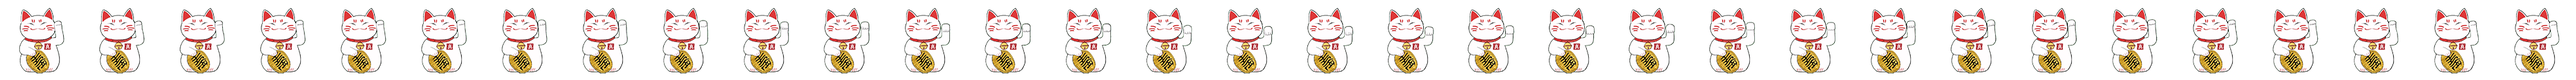
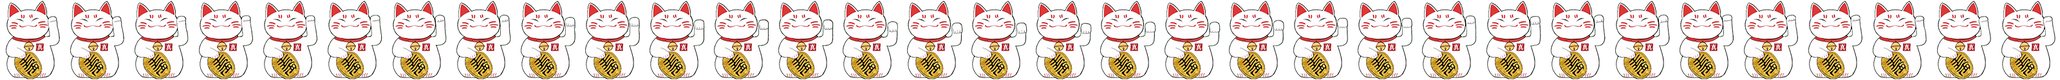
'update'

diff --git a/src/App.js b/src/App.js
@@ -1,37 +1,44 @@
-import React, { Suspense } from 'react'
-import { BrowserRouter, HashRouter, Navigate, Route, Routes } from 'react-router-dom'
+import React from 'react'
+import { HashRouter, Route, Routes } from 'react-router-dom'
 
 import { useEffect } from 'react'
-import { useDispatch } from 'react-redux'
-import { setProduct, setProducts } from 'service/baseSlice'
+import { useDispatch, useSelector } from 'react-redux'
+import { setProduct, setProducts, setLoading } from 'service/baseSlice'
 
 import Home from 'feature/Home/Home'
 import Detail from 'feature/Detail/Detail'
 import { monProducts } from 'service/sourceProduct'
 
+import Loading from 'components/Loading'
+
 function App() {
+  const isLoading = useSelector((state) => state.baseSlice.data.loading)
+
   const dispatch = useDispatch()
-  dispatch(setProducts(monProducts))
 
   useEffect(() => {
-    // Kiểm tra xem có dữ liệu đã lưu trong localStorage không
+    dispatch(setProducts(monProducts))
     const storedProduct = localStorage.getItem('product')
     if (storedProduct) {
-      // Nếu có, dispatch action để setProduct vào Redux state
-      dispatch(setProduct(JSON.parse(storedProduct).id))
+      const { id } = JSON.parse(storedProduct)
+      dispatch(setProduct(id))
     }
+    setTimeout(() => {
+      dispatch(setLoading(false))
+    }, 1000)
   }, [dispatch])
 
   return (
     <>
-      {/* <BrowserRouter basename={process.env.PUBLIC_URL}> */}
-      <HashRouter>
-        <Routes>
-          <Route path="/" element={<Home />} />
-          <Route path="/detail" element={<Detail />} />
-        </Routes>
-      </HashRouter>
-      {/* </BrowserRouter> */}
+      {isLoading && <Loading />}
+      {!isLoading && (
+        <HashRouter>
+          <Routes>
+            <Route path="/" element={<Home />} />
+            <Route path="/detail" element={<Detail />} />
+          </Routes>
+        </HashRouter>
+      )}
     </>
   )
 }

diff --git a/src/service/baseSlice.js b/src/service/baseSlice.js
@@ -1,4 +1,4 @@
-import { createSlice, createAsyncThunk } from '@reduxjs/toolkit'
+import { createSlice } from '@reduxjs/toolkit'
 
 const namespace = 'baseSlice'
 
@@ -8,6 +8,7 @@ const initialState = {
     newProducts: [],
     products: [],
     product: {},
+    loading: true,
   },
 }
 
@@ -23,15 +24,18 @@ const baseSlice = createSlice({
 
       state.data.newProducts = state.data.products.slice(0, 3)
 
-      console.log('bestProduct', state.data.bestProduct)
-      console.log('newProducts', state.data.newProducts)
-      console.log('products', state.data.bestPproductsroduct)
+      // console.log('bestProduct', state.data.bestProduct)
+      // console.log('newProducts', state.data.newProducts)
+      // console.log('products', state.data.bestPproductsroduct)
     },
     setProduct: (state, action) => {
       const productId = action.payload
       state.data.product = state.data.products.find((product) => product.id === productId) || {}
       localStorage.setItem('product', JSON.stringify(state.data.product))
-      console.log('product', state.data.product)
+      // console.log('product', state.data.product)
+    },
+    setLoading: (state, action) => {
+      state.data.loading = action.payload
     },
   },
   extraReducers(builder) {},
@@ -39,6 +43,6 @@ const baseSlice = createSlice({
 
 const { reducer, actions } = baseSlice
 
-export const { setBestProducts, setNewProducts, setProducts, setProduct } = actions
+export const { setBestProducts, setNewProducts, setProducts, setProduct, setLoading } = actions
 
 export default reducer

diff --git a/src/index.css b/src/index.css
@@ -109,7 +109,7 @@
   }
 
   .catpc {
-    width: 125px;
+    width: 100px;
     height: 125px;
     margin: 0 auto;
     object-fit: contain;
@@ -125,7 +125,7 @@
       background-position-x: 0px;
     }
     to {
-      background-position-x: -4000px;
+      background-position-x: -3200px;
     }
   }
   @-moz-keyframes moveXpc {
@@ -133,7 +133,7 @@
       background-position-x: 0px;
     }
     to {
-      background-position-x: -4000px;
+      background-position-x: -3200px;
     }
   }
   @-o-keyframes moveXpc {
@@ -141,7 +141,7 @@
       background-position-x: 0px;
     }
     to {
-      background-position-x: -4000px;
+      background-position-x: -3200px;
     }
   }
   @keyframes moveXpc {
@@ -149,13 +149,13 @@
       background-position-x: 0px;
     }
     to {
-      background-position-x: -4000px;
+      background-position-x: -3200px;
     }
   }
 
   .catmobile {
     width: 50px;
-    height: 50px;
+    height: 63px;
     margin: 0 auto;
     object-fit: contain;
     background-image: url('assets/images/catmobile.png');

diff --git a/src/components/Loading.js b/src/components/Loading.js
@@ -1,0 +1,14 @@
+import './loading.css'
+
+export default function Loading() {
+  return (
+    <div className="fixed z-50 flex h-screen w-screen items-center justify-center bg-black/50">
+      <div className="flex w-[150px] flex-col items-center gap-1">
+        <img src={require(`assets/images/loading.png`)} alt="loading" className="object-contain" />
+        <div className="h-2 w-[80%]">
+          <div className="loading h-full rounded-lg bg-primary"></div>
+        </div>
+      </div>
+    </div>
+  )
+}

diff --git a/src/feature/Home/Head/SwiperHead.js b/src/feature/Home/Head/SwiperHead.js
@@ -1,8 +1,7 @@
 import { Swiper, SwiperSlide } from 'swiper/react'
-import { Autoplay, Navigation, Pagination } from 'swiper/modules'
+import { Autoplay, Navigation } from 'swiper/modules'
 import 'swiper/css'
 import 'swiper/css/navigation'
-import 'swiper/css/pagination'
 
 export default function SwiperHead({}) {
   return (

diff --git a/src/components/Product.js b/src/components/Product.js
@@ -11,7 +11,7 @@ export default function Product({ type, product }) {
   let textName = ''
   let textPrice = ''
 
-  if (type == 'trending') {
+  if (type === 'trending') {
     textName = 'text-[9px] sm:text-[20px] leading-4 sm:leading-8'
     textPrice = 'text-[18px] sm:text-[28px]'
   } else {

diff --git a/src/components/loading.css b/src/components/loading.css
@@ -1,0 +1,12 @@
+@keyframes progress {
+  0% {
+    width: 0%;
+  }
+  100% {
+    width: 100%;
+  }
+}
+
+.loading {
+  animation: progress 1s ease-in-out infinite;
+}

diff --git a/src/service/sourceProduct.js b/src/service/sourceProduct.js
@@ -1,5 +1,3 @@
-let srcImg = 'assets/images/sp/'
-
 export let monProducts = [
   {
     id: 4,
